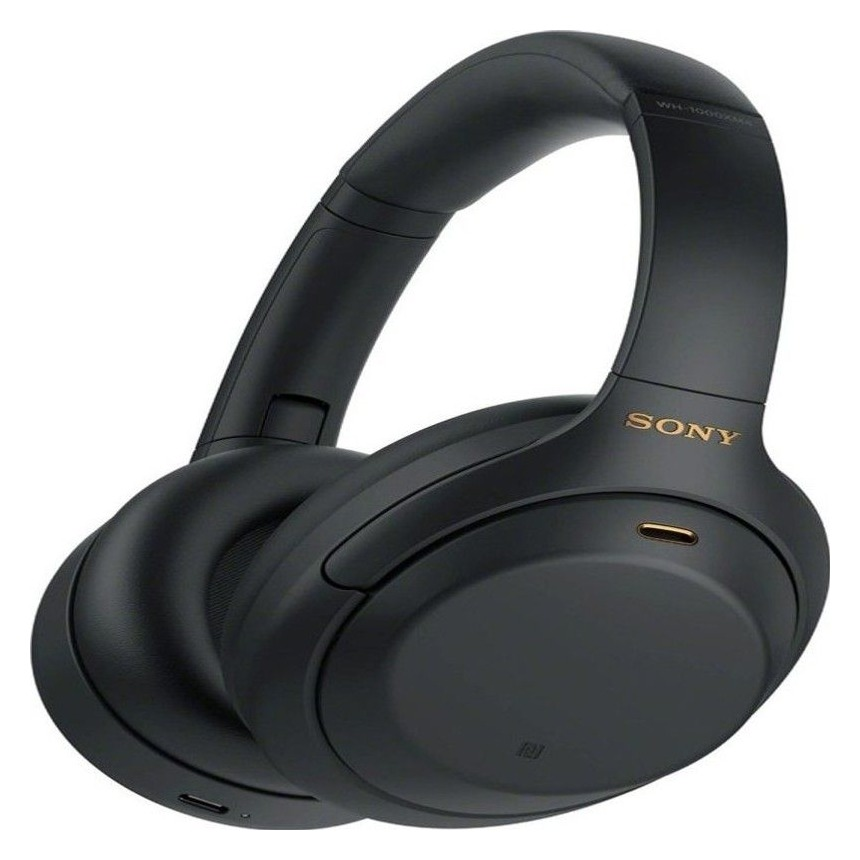
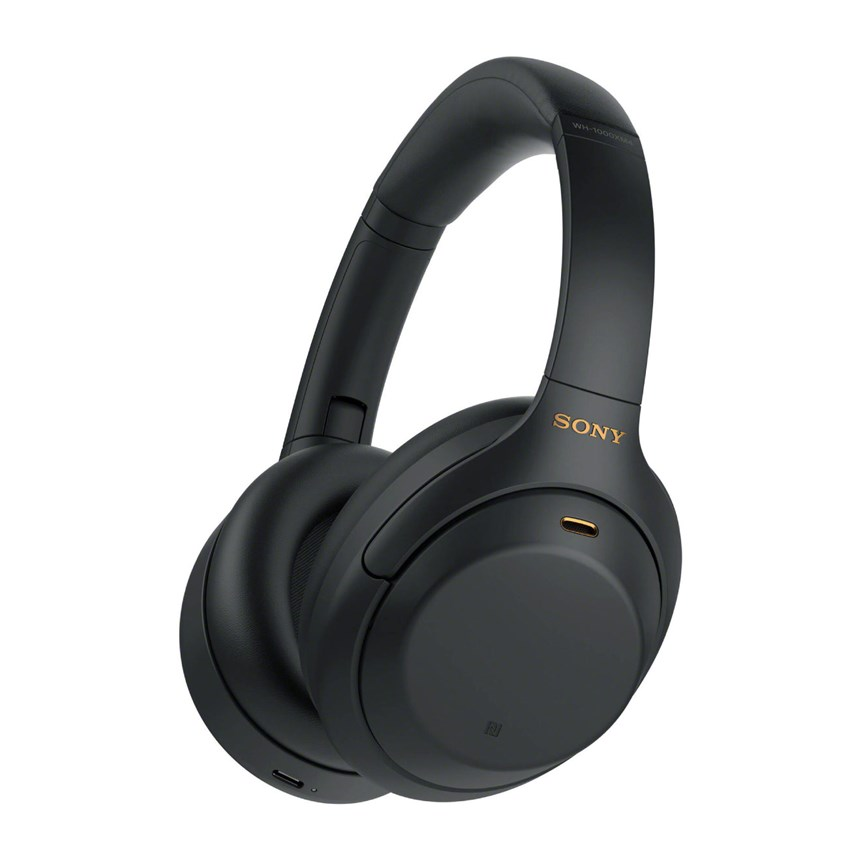
Fix SoundShoppie product image proportions with contain-fit squares.

diff --git a/doomsday/soundshoppie/index.html b/doomsday/soundshoppie/index.html
@@ -185,7 +185,8 @@
       .product-card .image-container {
         position: relative !important;
         width: 100% !important;
-        height: 230px !important;
+        height: auto !important;
+        aspect-ratio: 1 / 1 !important; /* match square product assets */
         margin: 0 !important;
         padding: 0 !important;
         background: #fff !important;
@@ -200,7 +201,7 @@
         height: 100% !important;
         max-width: none !important;
         max-height: none !important;
-        object-fit: contain !important; /* keep aspect; never stretch or crop */
+        object-fit: contain !important; /* never stretch or crop */
         object-position: center center !important;
         background: #fff !important;
         padding: 0 !important;
@@ -471,7 +472,7 @@
         <div class="card-deck d-flex justify-content-center align-items-stretch flex-wrap">
           <div class="product-card m-2">
             <div class="image-container">
-              <img class="card-img-top" src="./products/wh-1000xm.jpg?v=5" alt="Sony WH-1000XM4" />
+              <img class="card-img-top" src="./products/wh-1000xm.jpg?v=6" alt="Sony WH-1000XM4" />
             </div>
             <div class="card-body">
               <h5 class="card-title">WH-1000XM4</h5>
@@ -486,7 +487,7 @@
           </div>
           <div class="product-card m-2">
             <div class="image-container">
-              <img class="card-img-top" src="./products/qc45.jpg?v=5" alt="Bose QuietComfort 45" />
+              <img class="card-img-top" src="./products/qc45.jpg?v=6" alt="Bose QuietComfort 45" />
             </div>
             <div class="card-body">
               <h5 class="card-title">QC45</h5>
@@ -501,7 +502,7 @@
           </div>
           <div class="product-card m-2">
             <div class="image-container">
-              <img class="card-img-top" src="./products/ie-600.jpg?v=5" alt="Sennheiser IE 600" />
+              <img class="card-img-top" src="./products/ie-600.jpg?v=6" alt="Sennheiser IE 600" />
             </div>
             <div class="card-body">
               <h5 class="card-title">IE 600</h5>
@@ -516,7 +517,7 @@
           </div>
           <div class="product-card m-2">
             <div class="image-container">
-              <img class="card-img-top" src="./products/ath-m50.jpg?v=5" alt="Audio-Technica ATH-M50x" />
+              <img class="card-img-top" src="./products/ath-m50.jpg?v=6" alt="Audio-Technica ATH-M50x" />
             </div>
             <div class="card-body">
               <h5 class="card-title">ATH-M50x</h5>
@@ -531,7 +532,7 @@
           </div>
           <div class="product-card m-2">
             <div class="image-container">
-              <img class="card-img-top" src="./products/tune-760.jpg?v=5" alt="JBL Tune 760NC" />
+              <img class="card-img-top" src="./products/tune-760.jpg?v=6" alt="JBL Tune 760NC" />
             </div>
             <div class="card-body">
               <h5 class="card-title">Tune 760NC</h5>
@@ -549,7 +550,7 @@
               <span class="badge rounded-pill badge-notification bg-danger">
                 <div><div class="m-1">15 %</div><div class="m-1">off</div></div>
               </span>
-              <img class="card-img-top" src="./products/wf-1000.jpg?v=5" alt="Sony WF-1000XM4" width="800" height="800" />
+              <img class="card-img-top" src="./products/wf-1000.jpg?v=6" alt="Sony WF-1000XM4" />
             </div>
             <div class="card-body">
               <h5 class="card-title">WF-1000XM4</h5>
@@ -565,7 +566,7 @@
           </div>
           <div class="product-card m-2">
             <div class="image-container">
-              <img class="card-img-top" src="./products/t5-ii.jpg?v=5" alt="Klipsch T5 II" />
+              <img class="card-img-top" src="./products/t5-ii.jpg?v=6" alt="Klipsch T5 II" />
             </div>
             <div class="card-body">
               <h5 class="card-title">T5 II</h5>
@@ -581,7 +582,7 @@
           <div class="product-card m-2">
             <div class="image-container">
               <div class="overlay"><p class="overlay-text">Out of Stock</p></div>
-              <img class="card-img-top" src="./products/hd-660.jpg?v=5" alt="Sennheiser HD 660S2" />
+              <img class="card-img-top" src="./products/hd-660.jpg?v=6" alt="Sennheiser HD 660S2" />
             </div>
             <div class="card-body">
               <h5 class="card-title">HD 660S2</h5>

diff --git a/doomsday/soundshoppie/style/style.css b/doomsday/soundshoppie/style/style.css
@@ -57,8 +57,10 @@ body {
 }
 
 .product-card .card-img-top {
-  height: 250px;
-  object-fit: cover;
+  width: 100%;
+  height: 100%;
+  object-fit: contain;
+  object-position: center center;
 }
 
 .product-card .card-body {
